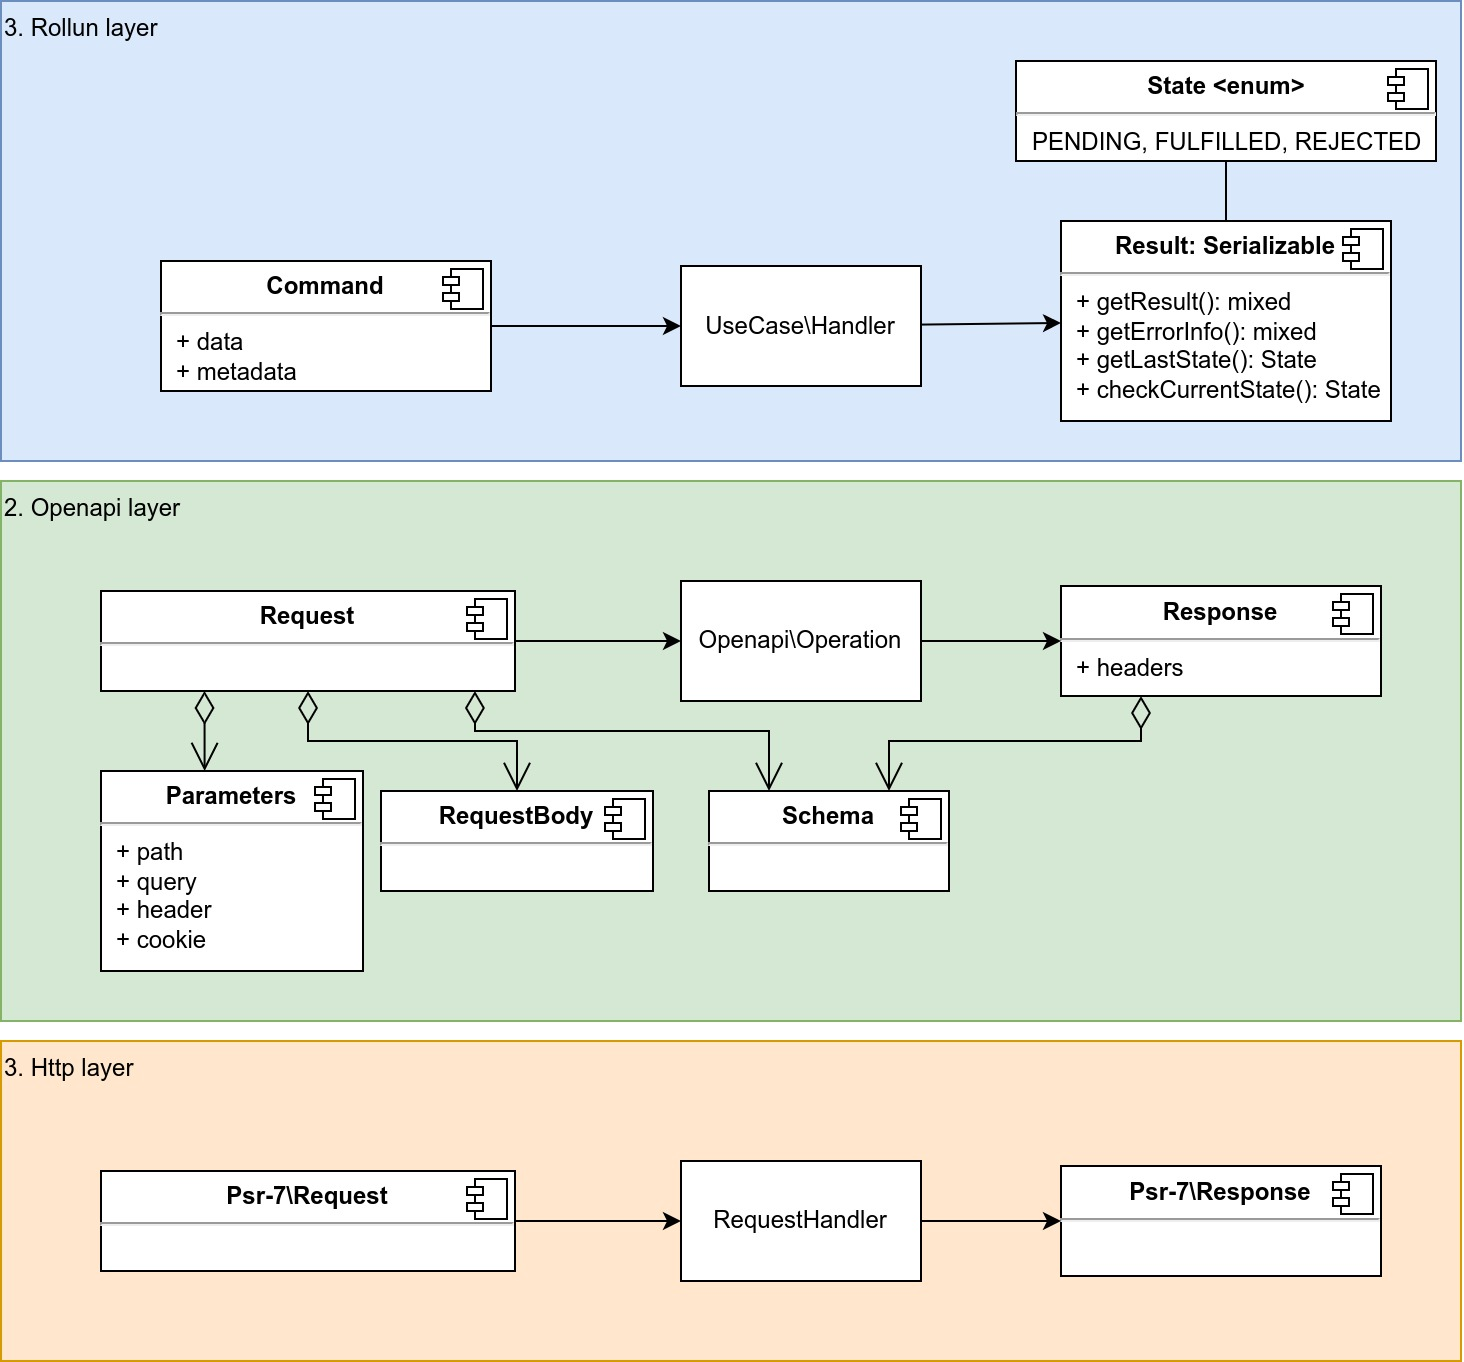
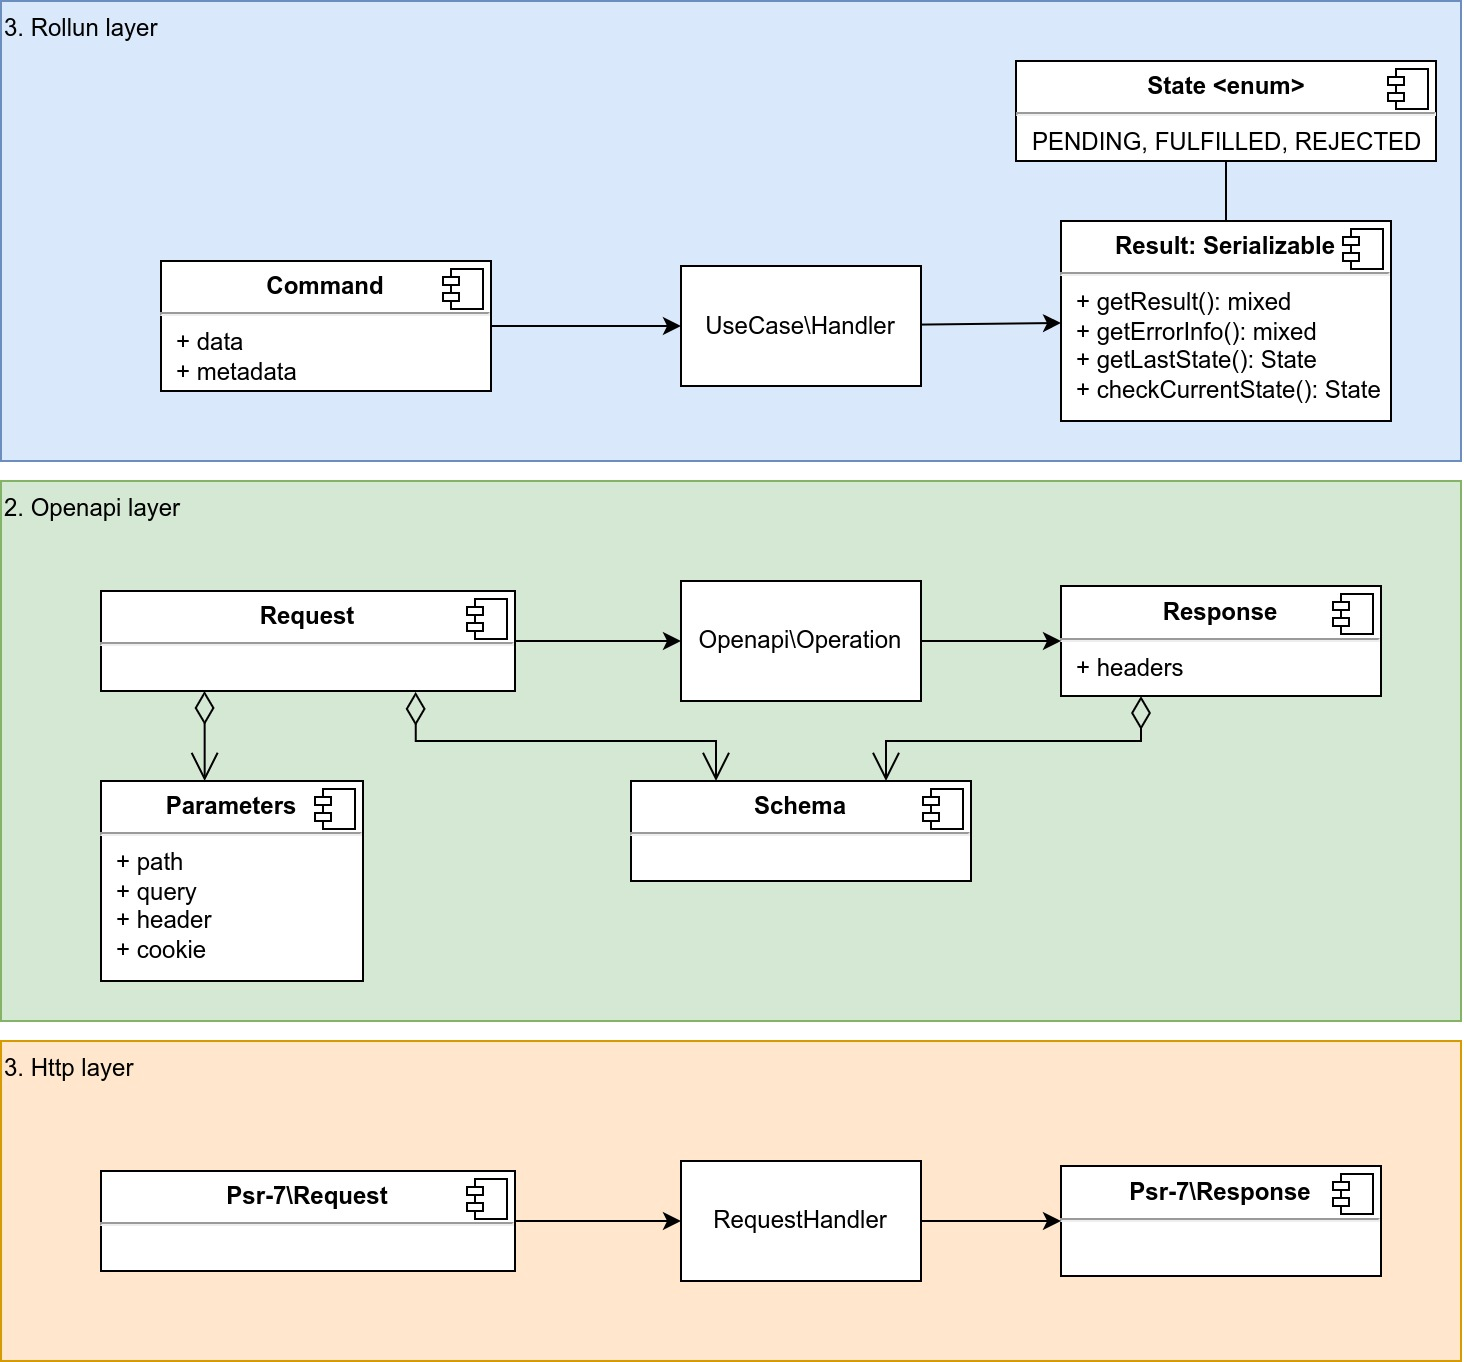
docs: object conversion between layers

Changed region(s): [[0.0615, 0.5242, 0.6762, 0.7401], [0.4918, 0.6476, 0.6455, 0.6784]]

diff --git a/docs/questions.md b/docs/questions.md
@@ -1888,6 +1888,139 @@ interface Handler
 Це й малось на увазі вище у рядку "Інтерфейси на кожному рівні дозволяють застосункам взаємодіяти на одному рівні так,
 ніби інших рівнів не існує".
 
+### Мапинг об'єктів між різними рівнями
+
+#### Request
+
+**Http layer**
+
+Конвертація: Php global variables -> `Psr7Request`
+
+Цим займається фреймворк.
+
+**Openapi layer**
+
+Конвертація: `Psr7Request` -> `OpenapiRequest`
+
+```php
+interface OpenapiRequest {
+    public function getParameters(): Parameters;
+    
+    public function hasBody(): bool;
+    public function getBody(): ?Schema;
+}
+
+interface Parameters {
+    public function hasPathParameter(string $name): bool;
+    public function getPathParameter(string $name): ?Parameter;
+    
+    public function hasQueryParameter(string $name): bool;
+    public function getQueryParameter(string $name): ?Parameter;
+    
+    public function hasHeaderParameter(string $name): bool;
+    public function getHeaderParameter(string $name): ?Parameter;
+    
+    public function hasCookieParameter(string $name): bool;
+    public function getCookieParameter(string $name): ?Parameter;
+}
+
+interface Parameter {
+    public function getName(): string;    
+    public function getValue(): mixed;
+}
+```
+
+> Для цих інтерфейсів будуть генеруватись відповідні реалізації для кожного ендпоінту. Наприклад, якщо в маніфесті
+> описано ендпоінт `POST /orders`, то згенерується реалізація:
+> ```php
+> class PostOrdersRequest implements OpenapiRequest {
+>   public function getParameters(): PostOrdersParameters;
+>   public function getBody(): ?Order;
+> }
+> ```
+> Відповідно будуть згенеровані й `PostOrdersParameters` та `Order`
+
+Загалом для всіх полів з `Rsr7Request` є відповідні в `OpenapiRequest`. Головна складність конвертації на цьому етапі:
+- Десеріалізація даних в об'єкти з підтримкою поліморфізму (oneOf, anyOf, allOf), різних медіа типів та кодувань.
+- Валідація даних згідно з маніфестом
+
+**Rollun layer**
+
+`OpenapiRequest` -> `Command`
+
+```php
+class Command {
+    public getPayload(): object; 
+    public getClientInfo(): ClientInfo;
+}
+``` 
+`Payload` - це звичайне DTO з публічними readonly полями та без бізнес-логіки. Ці поля будуть братись на пряму з поля 
+`payload` тіла запиту.
+
+`ClientInfo` - також DTO яка буде заповнюватись на основі хедерів.
+
+```php
+class ClientInfo {
+    public readonly ?string $language;
+    public readonly ?string $userAgent
+}
+```
+
+Можливо я щось упускаю, але в моєму розумінні це уся інформація з хедерів, яка хоч якось може вплинути на бізнес-логіку.
+Уся інша інформація з хедерів: авторизація, кодування, правила кешування і т.п повинні оброблюватись раніше формування 
+команди й незалежно від бізнес-логіки.
+
+Якщо користувач не пройшов автентифікацію, то command взагалі немає сенсу формувати, просто формується стандартна 
+помилка.
+Теж саме з кешуванням, якщо прийшов якийсь умовний запит, який не потрібно виконувати в залежності від умови, то це
+повинно вирішитись ще до формування команди.
+
+Для випадків вище клас обробник команди можна зобов'язати імплементувати деякі допоміжні методи. Наприклад, 
+```php
+// Це лише приблизний приклад, при проектуванні ці методи можуть переміститись до інших інтерфейсів,
+// змінити свою сігнатуру, з'являться нові методи і т.п. 
+
+interface Handler {
+    public function hasEtag(): bool;
+    public function getEtag(): string;
+    
+    public function hasLastModified(): bool;
+    public function getLastModified(): DateTimeInterface;
+    
+    /**
+     * @throws UserNotFoundException
+     */
+    public function authorize(string $username, string $password): User;
+    
+    public function handle(): Result;
+}
+```
+
+#### Response
+
+В цілому ситуація зеркальна запиту. Але деякі речі можна відмітити.
+
+**Rollun layer**
+
+На цьому рівні результат операції не містить прямої інформації про заголовки, правила кешування і т.п. Ця інформація
+збирається з різних місць і опирається на стандарти нашої компанії.
+
+Наприклад замість того щоб десь явно повертати 200, чи 202 код з обробника повертається об'єкт `Result`, який може бути 
+як в одному зі статусів `pending`, `fulfilled`, `rejected`, а код вже обирається в залежності від цього статусу.
+
+Код 500 формується виходячи з того чи відбувся ексепшн чи ні. 
+
+Медіа тип обирається в залежності від того відбулась помилка чи ні, синхронна операція чи асинхронна і т.п 
+
+Etag, Last-Modified і інші хедери отримуються на основі абстрактних методів, які імплементував, чи не імплементував
+програміст. 
+
+І тому подібне.
+
+Якщо програмісту потрібно втрутитись в цей процес, то він повинен це робити створюючи свою імплементацію чи декоратори 
+для стандартних інтерфейсів, та за допомогою інших патернів, що дозволяють розширювати логіку та повинні бути завчасно
+передбачені при створенні архітектури системи. 
+
 ### Назви класів, методів
 
 Теги не використовуються. Для генерації назв класів потрібно використовувати url та назви компонентів (схем, 
